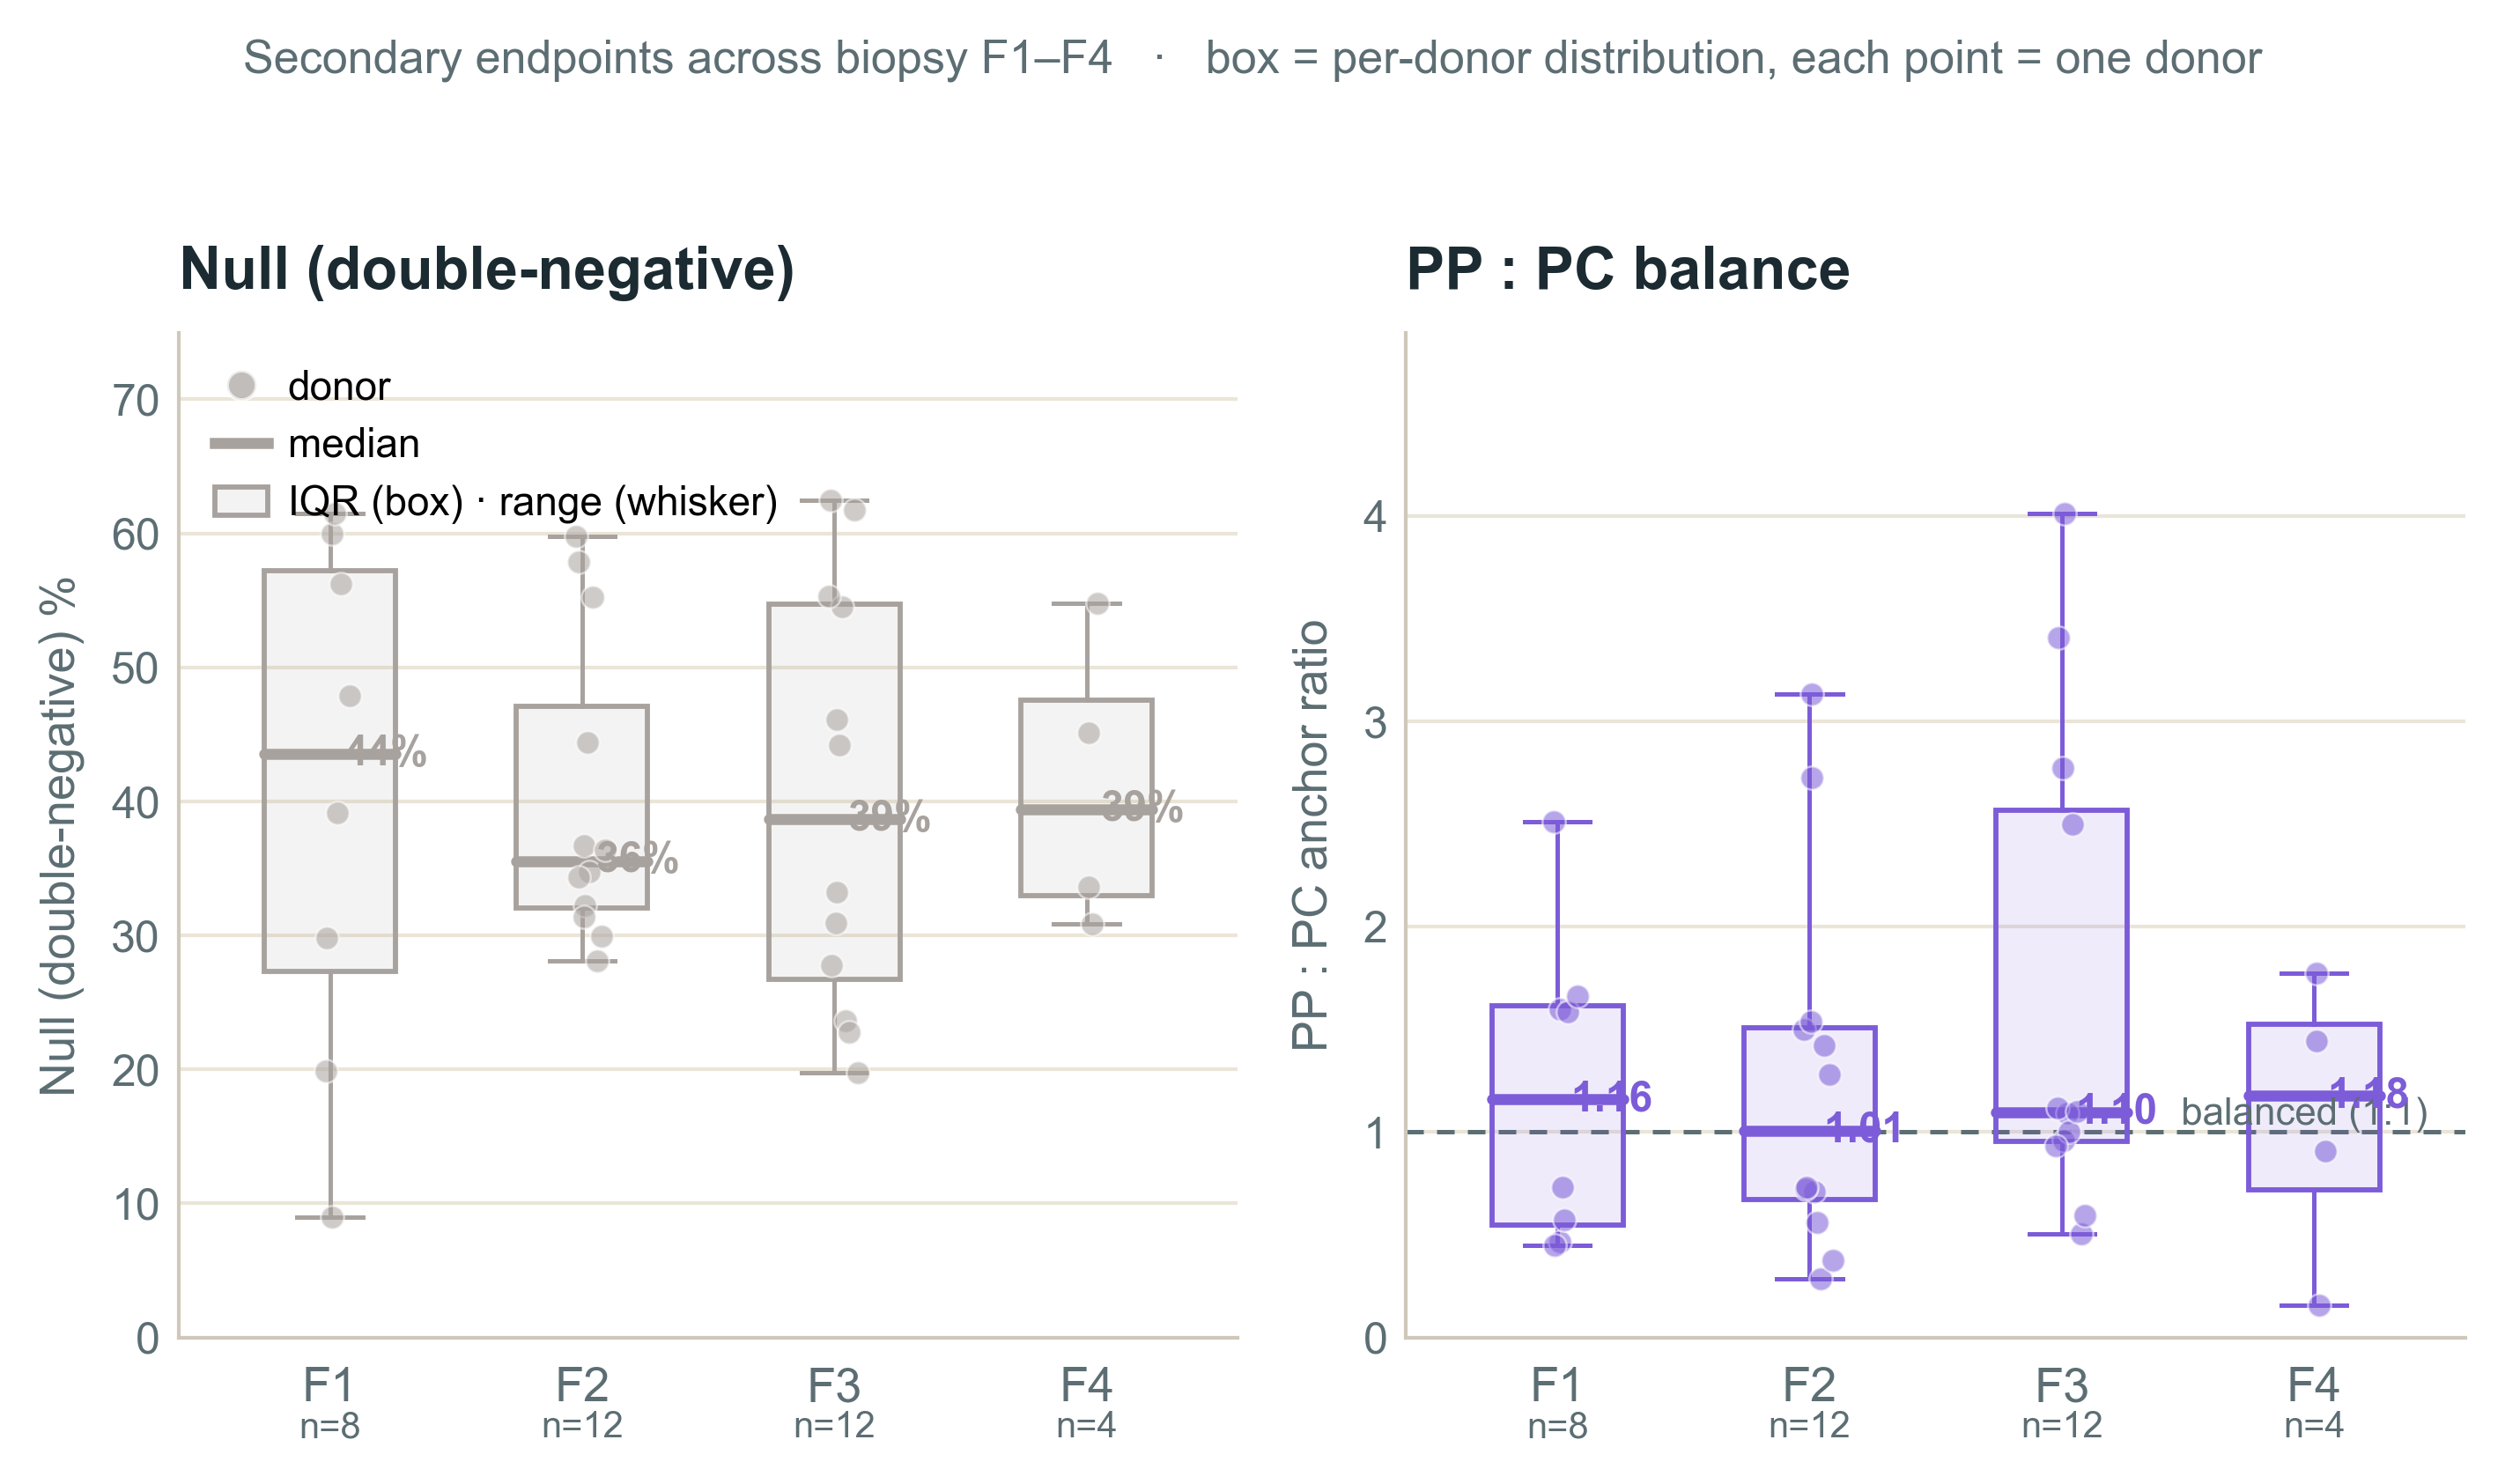
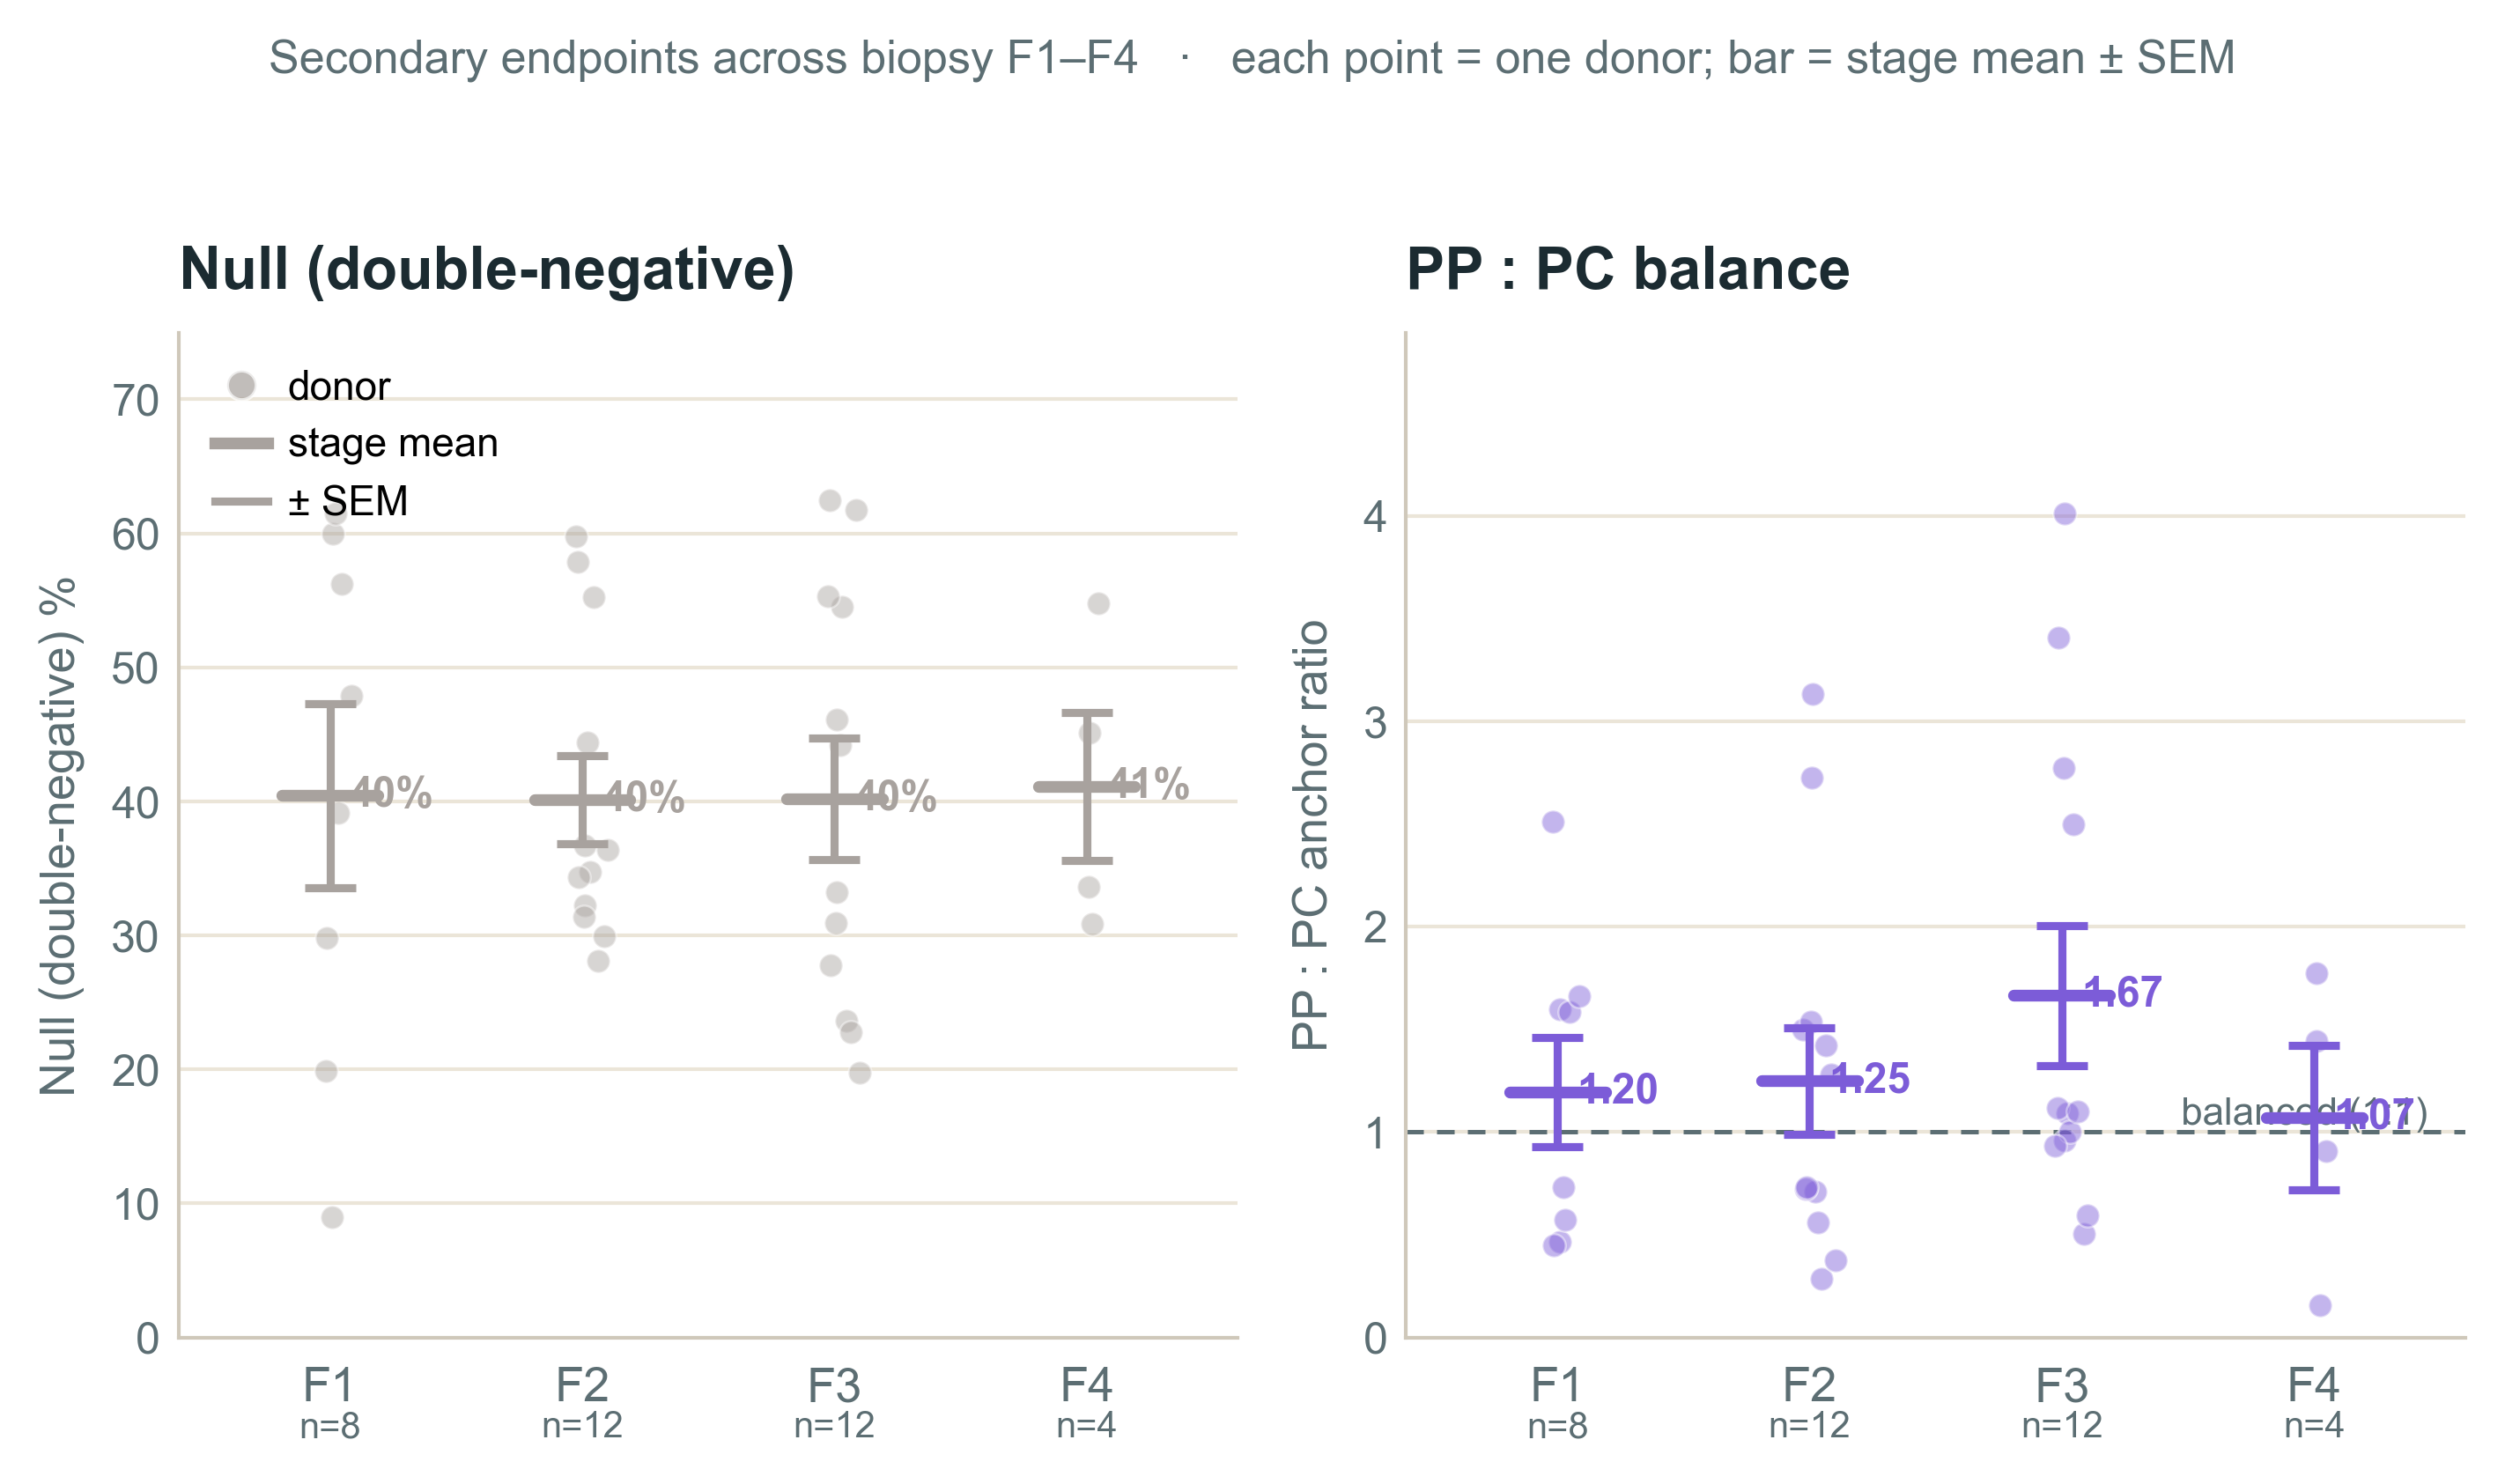
Result figures: per-donor dots + mean ± SEM; reconcile slide text + stamp equivalence
- make_figures.py: replace box-and-whisker with per-donor dots + stage mean ± SEM
  (donor = the replicate; SEM = SD/sqrt(n)); regenerate figures.
- Swap fig_result3 / fig_secondary into the canonical deck IN PLACE (manual layout
  preserved); reconcile slide 12 & 20 numbers to the donor means; clarify dual as
  "~0.4% per cell"; spell the TOST equivalence result out on the result slide
  (>±19 pp F4-F1 shift excluded; ≤10 pp drift not, F4 n=4); soften slide 20 headline
  to "Null is flat; the PP:PC ratio shows no stage trend".
- Cheat-sheet HTML: add page 2 — figure display choices + the honest claim ladder
  (never "intact"; no detectable signal; large shift excluded; subtle drift not).

diff --git a/presentation/MASLD_methods_concepts_reference.html b/presentation/MASLD_methods_concepts_reference.html
@@ -109,7 +109,55 @@
     </div>
 
   </div>
-  <footer>Re-analysis of Gribben et&nbsp;al., Nature 2024 (GSE202379) &middot; Roee Tekoah &amp; Shira Gelbstein</footer>
+  <footer>Re-analysis of Gribben et&nbsp;al., Nature 2024 (GSE202379) &middot; Roee Tekoah &amp; Shira Gelbstein &middot; page 1 of 2</footer>
+</div>
+
+<div class="wrap" style="break-before:page; margin-top:22px">
+  <header>
+    <h1>Reading the donor figures &mdash; display &amp; honest claims</h1>
+    <div class="sub">why dots + mean &plusmn; SEM &middot; and what we can (and can&rsquo;t) say</div>
+  </header>
+  <div class="grid">
+
+    <div class="card c-teal">
+      <h2>What the figure must show</h2>
+      <div class="row"><span class="t">Dots = every donor</span> <span class="d">&mdash; the spread and the outliers, shown. Nothing hidden behind a summary.</span></div>
+      <div class="row"><span class="t">Bar = precision of the center</span> <span class="d">&mdash; how well the <i>mean</i> is pinned &mdash; <b>not</b> the spread again (the dots already show that).</span></div>
+    </div>
+
+    <div class="card c-purple">
+      <h2>The error-bar menu</h2>
+      <div class="row"><span class="t">SD / IQR / whiskers</span> <span class="d">&mdash; spread of donors (descriptive). Redundant with the dots &mdash; and median + IQR is literally the box plot&rsquo;s box.</span></div>
+      <div class="row"><span class="t">SEM = SD/&radic;n</span> <span class="d">&mdash; precision of the mean; <b>tight</b> because of the &divide;&radic;n. <b>&larr; what we use:</b> a big donor spread still gives a well-pinned mean.</span></div>
+      <div class="row"><span class="t">95% CI = SEM &times; t</span> <span class="d">&mdash; also precision, but t &asymp; 3.2 at n = 4 blows it up &rarr; reads &ldquo;uncertain&rdquo; and fights the message.</span></div>
+    </div>
+
+    <div class="card c-amber">
+      <h2>Mean vs median</h2>
+      <div class="row"><span class="t">Use the mean</span> <span class="d">&mdash; the inference (TOST, SE &asymp; 4 pp) is mean-based; a median center would describe a different quantity than the test.</span></div>
+      <div class="row"><span class="t">Not median + IQR</span> <span class="d">&mdash; robust, but it&rsquo;s the descriptive box again: it shows spread (the dots already do), not confidence.</span></div>
+    </div>
+
+    <div class="card c-blue">
+      <h2>Why it&rsquo;s honest, not stat-picking</h2>
+      <div class="row"><span class="t">Raw data shown</span> <span class="d">&mdash; every donor is a dot; the outlier (PP:PC &asymp; 4.0) is visible, not smoothed away.</span></div>
+      <div class="row"><span class="t">Equivalence, both sides</span> <span class="d">&mdash; TOST states what <i>is</i> excluded AND what isn&rsquo;t &mdash; a falsifiable claim, not &ldquo;we looked and found nothing.&rdquo;</span></div>
+      <div class="row"><span class="t">A real change was found</span> <span class="d">&mdash; the same method/data detected detox dimming (&rho; = &minus;0.48) &rarr; the de-zonation null is genuine, not a power failure.</span></div>
+      <div class="row"><span class="t">Owned soft spot</span> <span class="d">&mdash; F4 has 4 donors; we lead with the F1&rarr;F4 trend, not the endpoint.</span></div>
+    </div>
+
+    <div class="card c-red span">
+      <h2>The claim ladder &mdash; what we can and can&rsquo;t say</h2>
+      <div class="confgrid">
+        <div class="row"><span class="t" style="color:var(--red)">&#10007; &ldquo;zonation is intact / preserved&rdquo;</span> <span class="d">&mdash; can&rsquo;t prove a negative; underpowered (F4 n = 4). <b>Never say this.</b></span></div>
+        <div class="row"><span class="t" style="color:var(--teal)">&#10003; &ldquo;no detectable de-zonation signal&rdquo;</span> <span class="d">&mdash; in matched biopsies, across every count route.</span></div>
+        <div class="row"><span class="t" style="color:var(--teal)">&#10003; &ldquo;a large shift is excluded&rdquo;</span> <span class="d">&mdash; a &gt; &plusmn;19 pp F4&ndash;F1 change is rejected by equivalence testing (TOST).</span></div>
+        <div class="row"><span class="t" style="color:var(--teal)">&#10003; &ldquo;a subtle drift is not excluded&rdquo;</span> <span class="d">&mdash; &le; 10 pp, limited by F4 n = 4. Stated, not hidden.</span></div>
+      </div>
+    </div>
+
+  </div>
+  <footer>The honest line: <b>no detectable de-zonation signal</b> &mdash; a large shift excluded, a subtle one not &middot; never &ldquo;intact&rdquo; &middot; page 2 of 2</footer>
 </div>
 </body>
 </html>

diff --git a/presentation/make_figures.py b/presentation/make_figures.py
@@ -133,26 +133,23 @@ SR=["F1","F2","F3","F4"]
 
 def boxpanel(ax,col,color,title,ylab,scale=100,explant_line=None,dec=0,
              legend=False,box_legend=False,top_pad=1.20):
-    """Box plot of the per-donor distribution per stage, with donor points overlaid and
-    the donor-median annotated. scale=100 -> percent; scale=1 -> raw ratio."""
+    """Per-donor dots with the stage MEAN and its standard error
+    (SEM = SD/sqrt(n); donor = the replicate). scale=100 -> percent; scale=1 -> raw ratio."""
     data=[bio[bio.Fs==st][col].values*scale for st in SR]
     top=max((v.max() if len(v) else 0) for v in data)
-    light=to_rgba(color,0.12)
-    bp=ax.boxplot(data, positions=range(len(SR)), widths=0.52, patch_artist=True,
-                  showfliers=False, whis=(0,100), zorder=2,
-                  medianprops=dict(color=color,lw=3,solid_capstyle="round"),
-                  boxprops=dict(facecolor=light,edgecolor=color,lw=1.4),
-                  whiskerprops=dict(color=color,lw=1.2),
-                  capprops=dict(color=color,lw=1.2))
     for i,v in enumerate(data):
         n=len(v)
-        ax.scatter(np.full(n,i)+jitter(n,0.10), v, s=40, color=color, alpha=0.55,
-                   edgecolor="white", linewidth=0.6, zorder=4)
+        ax.scatter(np.full(n,i)+jitter(n,0.11), v, s=40, color=color, alpha=0.45,
+                   edgecolor="white", linewidth=0.6, zorder=3)
         if n:
-            med=np.median(v)
-            ax.annotate(f"{med:.{dec}f}%" if scale==100 else f"{med:.{dec}f}",
-                        (i,med),xytext=(0.32,0),textcoords="offset fontsize",
-                        ha="left",va="center",fontsize=11.5,fontweight="bold",color=color,zorder=6)
+            m=float(np.mean(v))
+            sem=float(np.std(v,ddof=1)/np.sqrt(n)) if n>1 else 0.0
+            ax.errorbar(i, m, yerr=sem, fmt="none", ecolor=color, elinewidth=2.2,
+                        capsize=7, capthick=2.2, zorder=5)
+            ax.plot([i-0.19,i+0.19],[m,m], color=color, lw=3.2, solid_capstyle="round", zorder=6)
+            ax.annotate(f"{m:.{dec}f}%" if scale==100 else f"{m:.{dec}f}",
+                        (i,m),xytext=(0.46,0),textcoords="offset fontsize",
+                        ha="left",va="center",fontsize=11.5,fontweight="bold",color=color,zorder=7)
         ax.annotate(f"n={n}",(i,0),xytext=(0,-20),textcoords="offset points",
                     ha="center",va="top",fontsize=10,color=MUTE,zorder=6)
     ax.set_xticks(range(len(SR))); ax.set_xticklabels(SR)
@@ -166,15 +163,15 @@ def boxpanel(ax,col,color,title,ylab,scale=100,explant_line=None,dec=0,
     if legend:
         ax.legend(handles=[Line2D([0],[0],marker="o",ls="",mfc=color,mec="white",ms=8,
                                   alpha=0.7,label="donor"),
-                           Line2D([0],[0],color=color,lw=3,label="median"),
-                           Patch(facecolor=light,edgecolor=color,lw=1.4,label="IQR (box) · range (whisker)")],
+                           Line2D([0],[0],color=color,lw=3.2,label="stage mean"),
+                           Line2D([0],[0],color=color,lw=2.2,label="± SEM")],
                   loc="upper left", fontsize=11)
 
 fig,axs=plt.subplots(1,3,figsize=(12.4,5.9))
 boxpanel(axs[0],"PC_f",PC,"Pericentral anchor","PC-anchor %", legend=True)
 boxpanel(axs[1],"PP_f",PP,"Periportal anchor","PP-anchor %")
 boxpanel(axs[2],"dual2_f",DUAL,"Dual co-expression","Dual (≥2 UMI) %",explant_line=2.9,dec=1)
-fig.suptitle("Matched biopsy fibrosis F1–F4   ·   box = per-donor distribution, each point = one donor   (F0 n=2 omitted; full F0–F4 in backup)",
+fig.suptitle("Matched biopsy fibrosis F1–F4   ·   each point = one donor; bar = stage mean ± SEM   (F0 n=2 omitted; full F0–F4 in backup)",
              fontsize=12.5, color=MUTE, x=0.5, y=1.005, ha="center")
 fig.tight_layout(rect=(0,0,1,0.97)); fig.savefig(f"{OUT}/fig_result3.png", bbox_inches="tight", pad_inches=0.15); plt.close(fig)
 
@@ -184,7 +181,7 @@ boxpanel(s1,"null_f",NULL,"Null (double-negative)","Null (double-negative) %", l
 boxpanel(s2,"pppc",DUAL,"PP : PC balance","PP : PC anchor ratio", scale=1, dec=2, top_pad=1.22)
 s2.axhline(1.0, color=MUTE, ls=(0,(4,3)), lw=1.2, zorder=1)
 s2.text(len(SR)-0.55, 1.0, "  balanced (1:1)", color=MUTE, fontsize=10.5, va="bottom", ha="right")
-fig.suptitle("Secondary endpoints across biopsy F1–F4   ·   box = per-donor distribution, each point = one donor",
+fig.suptitle("Secondary endpoints across biopsy F1–F4   ·   each point = one donor; bar = stage mean ± SEM",
              fontsize=12.5, color=MUTE, x=0.5, y=1.005, ha="center")
 fig.tight_layout(rect=(0,0,1,0.97)); fig.savefig(f"{OUT}/fig_secondary.png", bbox_inches="tight", pad_inches=0.15); plt.close(fig)
 